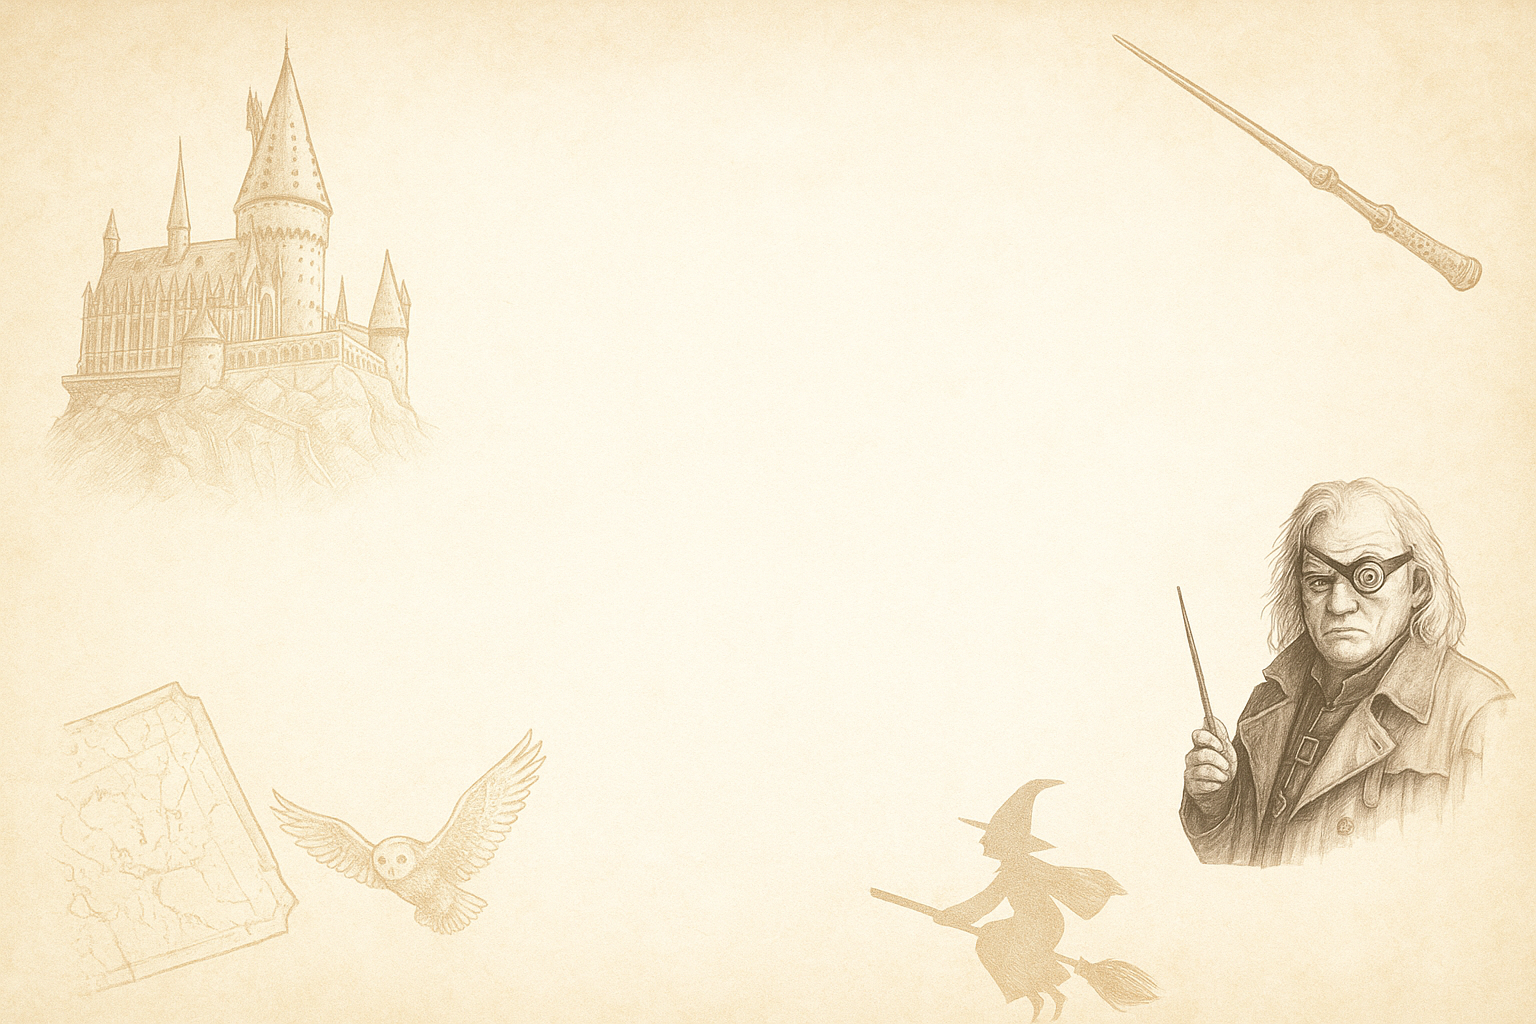
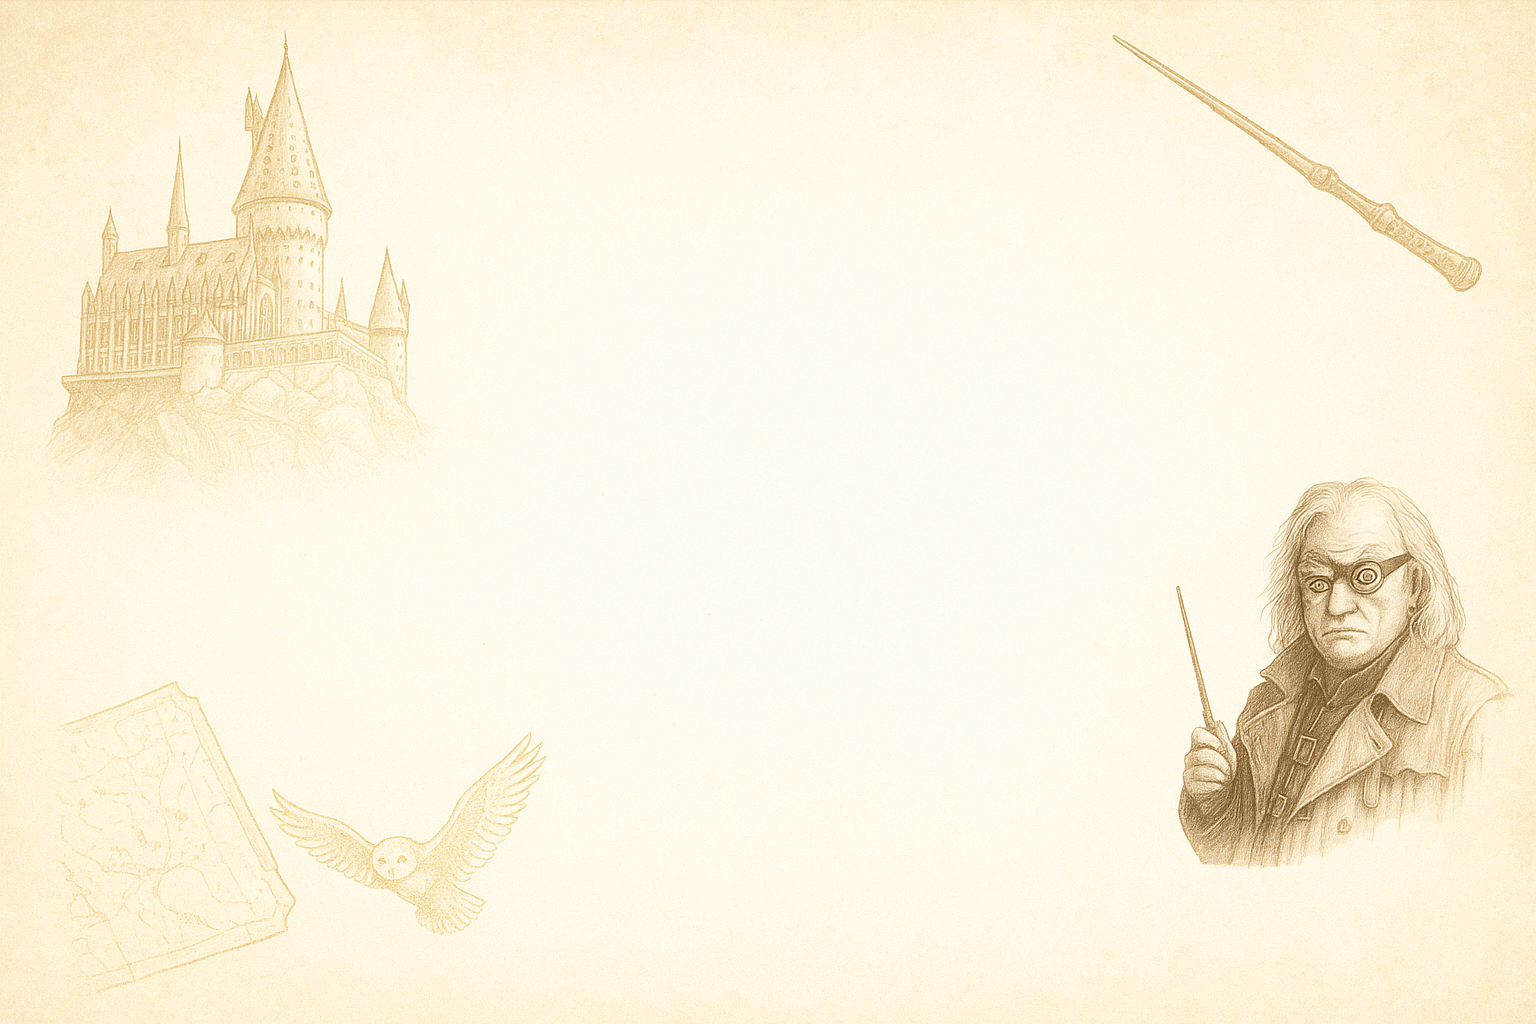
fondo

diff --git a/assets/css/main.scss b/assets/css/main.scss
@@ -9,6 +9,6 @@
 
 body {
   background: 
-    url("/assets/images/fondo.jpg") no-repeat center center fixed;
+    url("/assets/images/fondo.png") no-repeat center center fixed;
   background-size: cover;
 }
